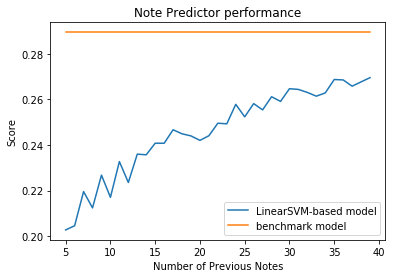
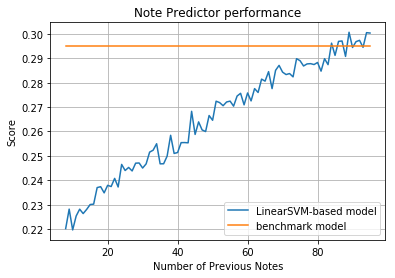
Fixes per review

diff --git a/report.md b/report.md
@@ -20,12 +20,18 @@ Predicting novel sequences from an existing sequence of notes serves two major p
 
 Since music is, like all art forms, intended to surprise and not simply be a repeat of rigid rules, some wiggle room should be allowed for accidentals and the most likely note shouldn't allways be the note that is selected in generation. An objective evaluation of whether the model does well enough on the test set can demonstrate that the model is learning _something_ that can be applies, while this analysis should ultimately be coupled with a subjective listening of computer-generated sequences.
 
-Here we are treating this as a classification problem. By removing octave information from the equation, we are using environment data, including the recent history of notes to predict the next note. Additionally, we also treat the key and mode as a classification problem as well and use that input as part of the environment for the other classification problem, predicting the next note.
+Here we are treating this as a classification problem. By removing octave information from the equation, we are using environment data, including the recent history of notes to predict the next note. Additionally, we also treat the key and mode as a classification problem as well and use that input as part of the environment for the supervised learning problem, predicting the next note.
+
+The strategy I propose is breaking it down into two parts. First, perform preprocessing to make the data usable by machine learning algorithms, ensure consistency, and remove data that isn't relevant. Second, perform an unsupervised learning algorithm on all of the tracks with melodic content in order to be able to classify tracks by their key and mode. Secondly, use that classification, the placement of the note within the measure it's in and a tunable number of previous notes as the dimensions of the label for a supervised learning technique.
 
 ### Metrics
 Ultimately the best metric for evaluating these methods would be subjective. Have a number of musically-inclined people judge the output of the algorithm, whether corrected sequences or sequences with new notes added programmatically, based on how musically pleasing it is. However, that is beyond the scope of this since it requires a statistically appropriately large number of humans making these judgments. Before we can get to the point where it's worth doing such tests, it should clear a more objective test of accuracy first.
 
 To this end, I split the data into a training set and a test set, and score based on how many predictions are correct. This output by itself doesn't tell us enough, however. It's simply a number between 0 and 1. A good baseline would be the simpler to implement benchmark, which is a function that guesses the following note by simply selecting a random note based on the distribution of probabilities in the composition. In other words, our model needs to do _better than chance_, with an educated understanding of the chance. Given the additional overhead of training a model, it should ideally do _significantly_ better than this benchmark to be worth the trouble.
+
+The metric used to score both the SVM and the benchmark probabilistic model is mean accuracy. The notes are not treated as numerical, so there is no such thing as more or less wrong, only the one correct answer and the rest being incorrect. The basic formula is:
+
+$score = \frac{number of correct predictions}{total number of predictions made}$  
 
 ## II. Analysis
 
@@ -62,13 +68,18 @@ I propose two models used in concert with each other in order to predict new not
 
 For clustering, we propose k means as a good way to determine key and mode. Such information can also be found in the key signature in the midi file, but it is not guaranteed to be present or accurate in a valid midi file. For classifying next note from previous notes, we propose using a linear support vector machine. It is a good algorithm for preventing overfitting and isn't too algorithmically complex for the huge dataset we're dealing with.
 
-We can tune the SVM  by changing how many previous notes to look at, with the dimensionality being n+2. Higher number of previous notes gives the model more data to work with but also potentially could lead to overfitting (if you know a note from the previous 60 notes, you may simply be remembering a specific melody in a specific song). The clustering algorithm can be tuned by adjusting the number of clusters. In the previous exploration section, 10 appeared to be the optimal number of clusters, based on cluster distinctiveness.
+K Means creates a number of centroids, chosen at the start, placed randomly in the n-dimensional space, depending on the number of features. In our case, 12. Then all the points are assigned to a centroid based on the distance, then the centroids are pushed to the center of the points assigned to it. This is repeated until the centroids stop moving much or a preconfigured number of iterations has been reached. After this has run, we will hopefully have a number of centroids that represent something meaningful, key and mode combinations.
+
+SVMs are a supervised learning algorithm that divides data into classes, by placing hyperplanes between them in n-dimensional space. Then the hyperplanes are moved until their margins to the data points are increased as much as possible or until the max number of generations is reached. To accomodate data that isn't linearly separable, a kernel is used that transforms the data into a higher dimension so that it is linearly separable. The flexibility in being able to use different kinds of kernels allows classifying data that isn't linearly separable or also choosing based on computational efficiency.
+
+In our case, the large amount of data is difficult to accomodate with non-linear kernels so LinearSVC is used. The potentially large number of features (if a high number of previous notes are used) means SVMs are a good choice since they are less prone to over-fitting than other models.
+
+We can tune the SVM by changing how many previous notes to look at, with the dimensionality being n+2. Higher number of previous notes gives the model more data to work with but also potentially could lead to overfitting (if you know a note from the previous 60 notes, you may simply be remembering a specific melody in a specific song). The clustering algorithm can be tuned by adjusting the number of clusters. In the previous exploration section, 10 appeared to be the optimal number of clusters, based on cluster distinctiveness.
 
 ### Benchmark
 The benchmark model, which we hope to exceed in predictive quality, will be a simply probabilistic model. Get the probabilities of all the previous notes in a sequence and pick randomly based on that. For example, if there have been four notes already, A A C C, then pick A with a probability of 50% or C with a probability of 50%. Subsequent notes are picked in this manner but always based on the real previous notes, not the guesses.
 
 We can then create a score based on these guesses and compare it to the scores of the final SVM model, comparing different values for previous notes to consider.
-
 
 ## III. Methodology
 
@@ -106,12 +117,15 @@ The following parameters can be tuned to affect the final results:
 * Quantization precision to apply
 * Number of previous notes to look at when training the supervised model (SVM)
 * Number of cluster centers for the unsupervised classification model (K Means)
+* SVM class weight
 
 Quantization is a balancing act between several different concerns. Quantizing to lower precision means discarding more data and by pushing multiple notes that didn't overlap into overlapping, potentially discarding much more data as polyphonic sequences are left out of the training for the model. Quantizing to higher precision can increase the dimensionality of the data. I went with quantizing to eight notes.
 
 The number of previous notes to look at gives the model more data to consider in making predictions but can lead to overfitting if the value is too high. I looped through different values for this parameter and comparing the scores. See the visualization in the conclusion section.
 
 The number of cluster centers is important as this influences the quality of the classifier, which provides one of the values used by the SVM model. Too few clusters and songs in different modes are spuriously classified together, too many and we're unduly ignoring commonalities. I looped through different values for that and graphed the graph distinctiveness in the exploratory visualizations section.
+
+The SVM itself can be adjusted in a number of ways. The class weight is one that appears most relevant to this application. By default, we're giving the model an undifferentiated sequence of floating point features. However, we could give the cluster assignment (key/mode) value additional weight, given how much information that one feature really gives us, compared to the previous note features. Conversely, using balanced mode can tell the algorithm to give a value more weight, the rarer it is.
 
 ## IV. Results
 
@@ -128,7 +142,7 @@ The solution does better than random chance so it does give us some information,
 ## V. Conclusion
 
 ### Free-Form Visualization
-Here we see the performance of the model with different values of previous notes. As we can see, increasing the value does increase the score, but it never gets as good as the benchmark model.
+Here we see the performance of the model with different values of previous notes. As we can see, increasing the value does increase the score, but even with sky-high number of features, it is still low. If the score is to be trusted, then the point of overfitting hasn't been reached.
 
 ![note predictor performance](img/note_predictor_performance.png "Note Predictor Performance")
 
